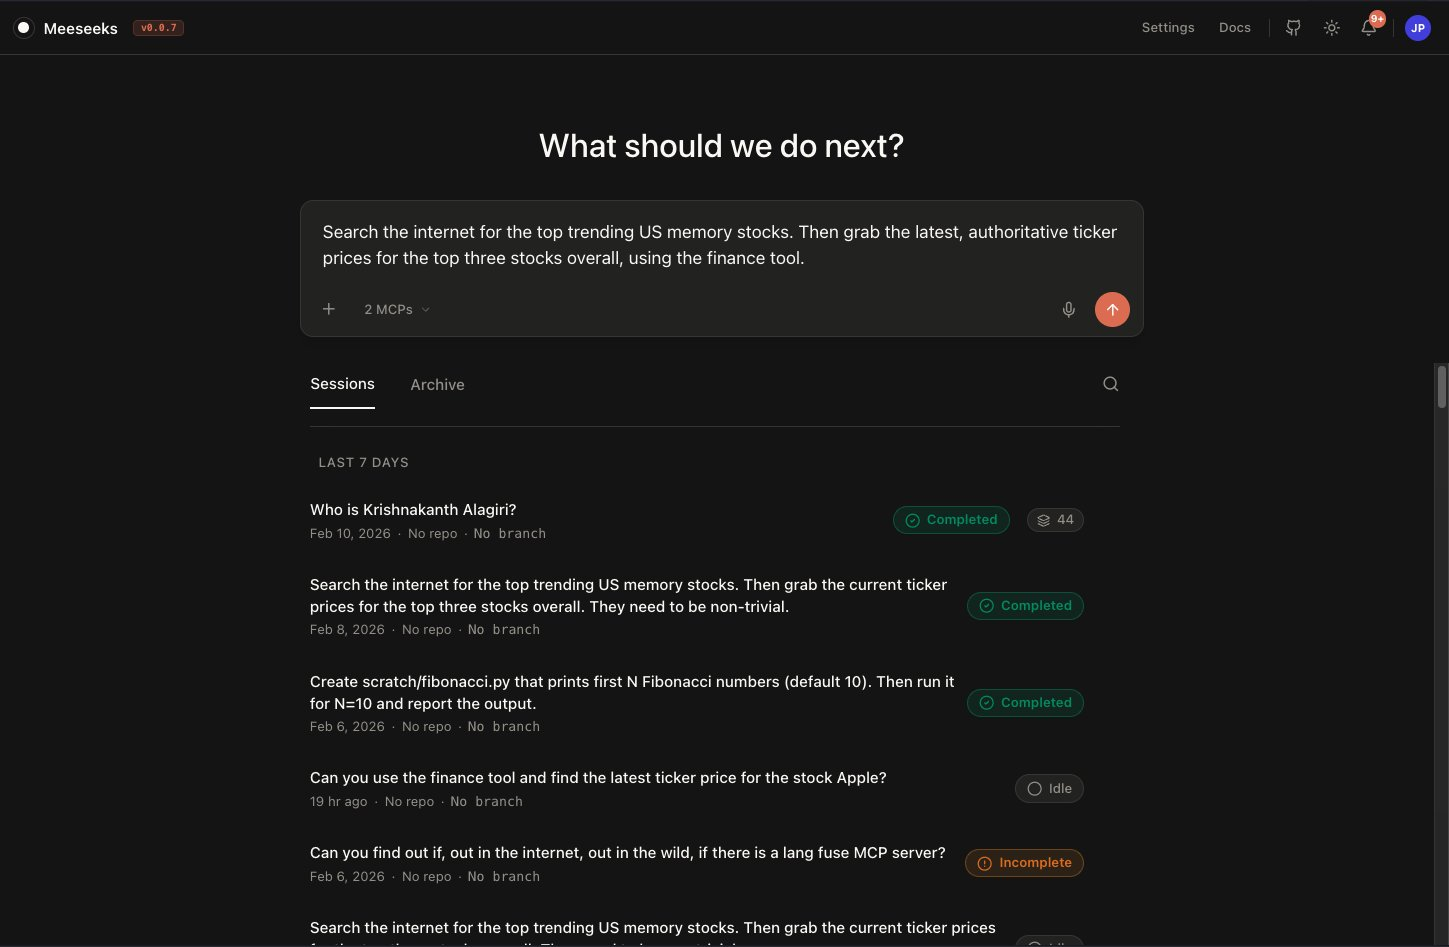
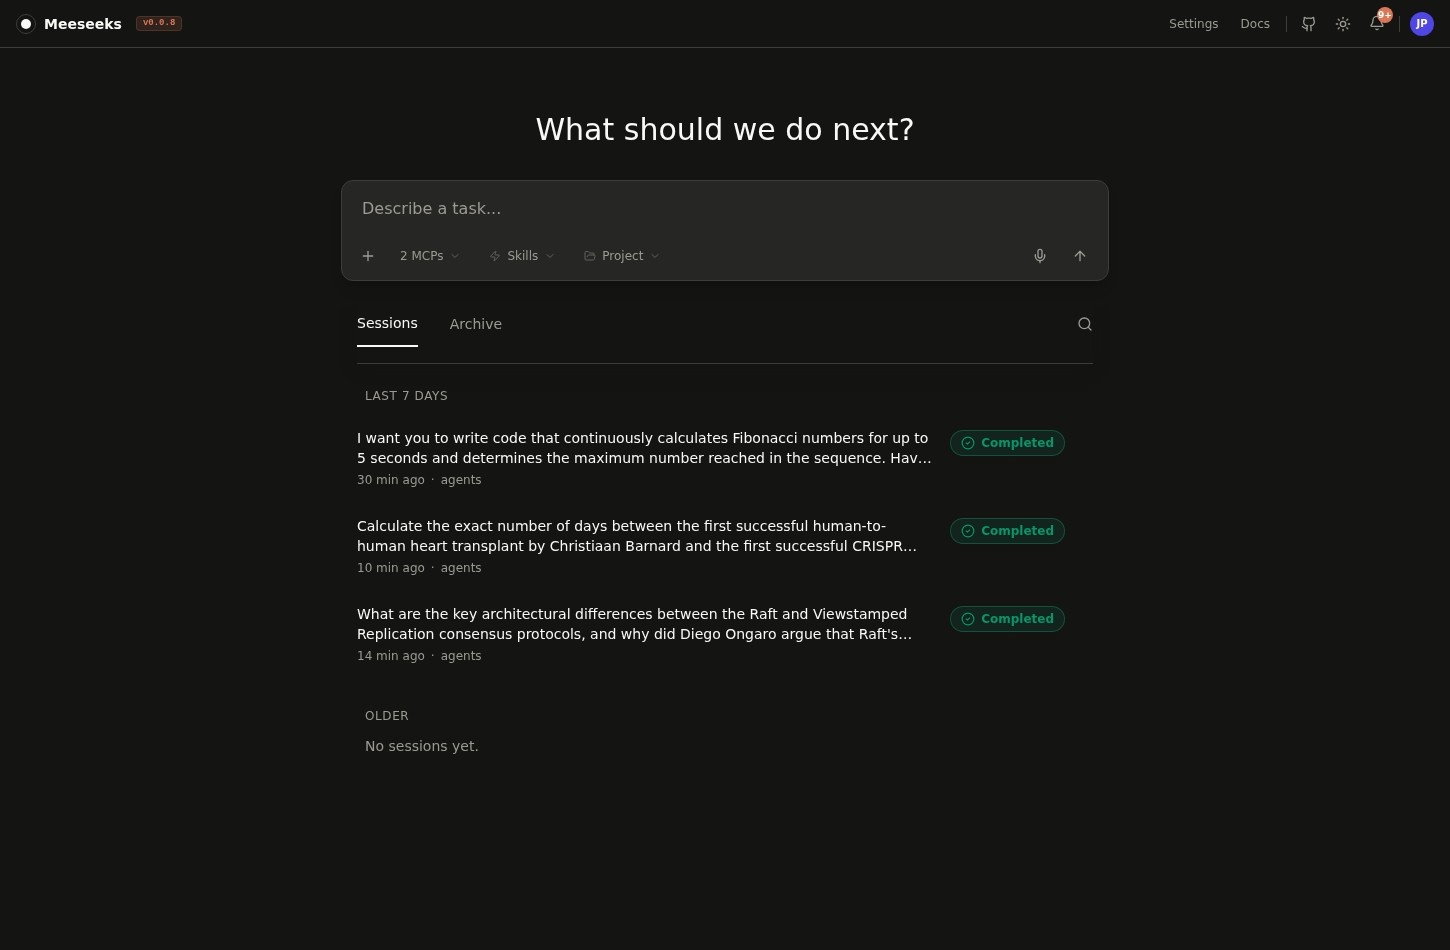
🎨 fix(console): constrain session cards and refresh documentation screenshots
- Add line-clamp-2 + min-w-0/flex-1 to SessionItem title to prevent
  long text bleeding into the status badge
- Add shrink-0 to the right-side badge group so it never gets squeezed
- Switch from items-center to items-start for proper top-alignment
  when title wraps to two lines
- Apply same constraints to HomeView search results
- Regenerate docs screenshots (1450x950 JPEG) reflecting the new
  trace activity feed cards, two-row InputBar, and cleaned-up session list

diff --git a/apps/meeseeks_console/src/components/HomeView.tsx b/apps/meeseeks_console/src/components/HomeView.tsx
@@ -204,26 +204,23 @@ export function HomeView({
                   onSessionSelect(session.session_id);
                   setIsSearchOpen(false);
                 }}
-                className="flex items-center justify-between p-3 hover:bg-[hsl(var(--accent))] rounded-lg cursor-pointer group">
+                className="flex items-start gap-4 p-3 hover:bg-[hsl(var(--accent))] rounded-lg cursor-pointer group">
 
-                    <div className="flex flex-col gap-1">
-                      <h3 className="text-sm font-medium text-[hsl(var(--foreground))]">
+                    <div className="flex flex-col gap-1 min-w-0 flex-1">
+                      <h3 className="text-sm font-medium text-[hsl(var(--foreground))] line-clamp-2">
                         {session.title}
                       </h3>
                       <div className="flex items-center gap-1.5 text-xs text-[hsl(var(--muted-foreground))]">
-                        <span>{formatSessionTime(session.created_at)}</span>
+                        <span className="whitespace-nowrap">{formatSessionTime(session.created_at)}</span>
                         {(session.context?.project || session.context?.repo) && (
                           <>
                             <span>·</span>
-                            <span>{session.context?.project || session.context?.repo}</span>
+                            <span className="truncate">{session.context?.project || session.context?.repo}</span>
                           </>
                         )}
                       </div>
                     </div>
-                    <div className="flex items-center gap-3">
-                      <div className="text-xs text-[hsl(var(--muted-foreground))]">
-                        {session.status}
-                      </div>
+                    <div className="flex items-center gap-3 shrink-0">
                       {(onArchive != null || onUnarchive != null) &&
                       <button
                         onClick={(event) => {

diff --git a/apps/meeseeks_console/src/components/SessionItem.tsx b/apps/meeseeks_console/src/components/SessionItem.tsx
@@ -27,30 +27,30 @@ export function SessionItem({
   return (
     <div
       onClick={() => onClick(session.session_id)}
-      className="group flex items-center justify-between py-3 px-2 -mx-2 rounded-lg hover:bg-[hsl(var(--accent))] cursor-pointer transition-colors">
+      className="group flex items-start gap-4 py-3 px-2 -mx-2 rounded-lg hover:bg-[hsl(var(--accent))] cursor-pointer transition-colors">
 
-      <div className="flex flex-col gap-1">
-        <h3 className="text-sm font-medium text-[hsl(var(--foreground))] group-hover:opacity-90 transition-colors">
+      <div className="flex flex-col gap-1 min-w-0 flex-1">
+        <h3 className="text-sm font-medium text-[hsl(var(--foreground))] group-hover:opacity-90 transition-colors line-clamp-2">
           {session.title}
         </h3>
         <div className="flex items-center gap-1.5 text-xs text-[hsl(var(--muted-foreground))]">
-          <span>{formatSessionTime(session.created_at)}</span>
+          <span className="whitespace-nowrap">{formatSessionTime(session.created_at)}</span>
           {(session.context?.project || session.context?.repo) && (
             <>
               <span>·</span>
-              <span>{session.context?.project || session.context?.repo}</span>
+              <span className="truncate">{session.context?.project || session.context?.repo}</span>
             </>
           )}
           {session.context?.branch && (
             <>
               <span>·</span>
-              <span className="font-mono">{session.context.branch}</span>
+              <span className="font-mono truncate">{session.context.branch}</span>
             </>
           )}
         </div>
       </div>
 
-      <div className="flex items-center gap-4">
+      <div className="flex items-center gap-3 shrink-0 pt-0.5">
         <StatusBadge
           status={session.status || 'idle'}
           doneReason={session.done_reason} />
